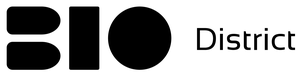
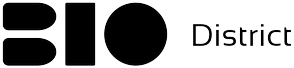
Kisi pemilih project: satu petak besar untuk project terakhir
Enam kartu sama besar terbaca sebagai daftar, dan daftar tidak mengatakan
apa pun tentang mana yang dicari. Project yang terakhir dikerjakan kini
mendapat petak dua kali dua di sudut kiri atas; lima kartu sisanya mengisi
lima petak yang tersisa, dan sembilan petak kisi tiga kali tiga itu habis
tanpa sisa. Delapan dari sepuluh kali orang membuka layar ini untuk kembali
ke project yang sama seperti kemarin.

Karena petak besar itu hanya masuk akal di sudut kiri atas, urutan tampilnya
ikut berubah: yang terakhir dikerjakan dimajukan ke depan.

Susunan ini hanya berlaku pada layar selebar 940 piksel ke atas. Di bawah
itu petak besar memakan seluruh lebar layar, dan yang tersisa justru daftar
yang sama dengan satu kartu raksasa di atasnya.

Dua hal kecil ikut dikerjakan:

  - Garis rambut memisahkan bidang lambang dari nama di bawahnya. Lambang
    yang membawa tulisan di dalamnya — Naraya, Permai Indah — paling mudah
    terbaca menyatu dengan nama project di bawahnya tanpa garis itu.
  - Sapuan emas melebar dari kiri ke kanan di tepi atas kartu yang disorot,
    dan berhenti bekerja bila peramban diminta mengurangi gerak.

Bingkai putih pada bio-district.png dihilangkan seluruhnya, bukan hanya
dipangkas: kepekatan tiap piksel dijadikan alfa, sehingga putihnya bening
dan tepi yang dihaluskan tetap halus. Nilai RGB-nya tidak diubah — hitamnya
tetap hitam. Kini keenam berkas sama-sama beralfa, dan tidak ada satu pun
yang membawa kotak putihnya sendiri.
[…]

diff --git a/src/app/globals.css b/src/app/globals.css
@@ -799,6 +799,37 @@ ul.syarat-foto { margin: 8px 0 0 16px; padding: 0; font-size: 11.5px;
    tetap cukup lebar untuk lambang yang paling melebar. */
 .pilih-project .pilihan {
   gap: 16px; grid-template-columns: repeat(auto-fit, minmax(236px, 1fr));
+  align-items: stretch;
+}
+
+/* Kisi tiga kali tiga dengan satu petak besar di sudut kiri atas.
+   
+   Enam kartu sama besar terbaca sebagai daftar, dan daftar tidak mengatakan
+   apa pun tentang mana yang dicari. Project yang terakhir dikerjakan diberi
+   petak dua kali dua — empat petak untuk satu kartu, lima kartu sisanya
+   mengisi lima petak yang tersisa, dan sembilan petaknya habis tanpa sisa.
+   Delapan dari sepuluh kali orang membuka layar ini untuk kembali ke project
+   yang sama seperti kemarin, dan kartu itulah yang paling dulu ditemukan
+   mata.
+   
+   Hanya di layar yang cukup lebar untuk tiga kolom. Di bawah itu petak besar
+   akan memakan seluruh lebar layar dan yang tersisa justru daftar yang sama,
+   hanya dengan satu kartu raksasa di atasnya. */
+@media (min-width: 940px) {
+  .pilih-project .pilihan { grid-template-columns: repeat(3, 1fr);
+                            grid-auto-flow: row dense; }
+  .pilih-project .pilihan .kartu-project.terakhir {
+    grid-column: span 2; grid-row: span 2;
+  }
+  /* Bidang lambangnya memuai mengisi tinggi kartu, bukan tetap 108 piksel —
+     kalau tidak, kartu setinggi dua baris akan berisi lambang kecil di atas
+     dan ruang kosong selebar dua kolom di bawahnya. */
+  .kartu-project.terakhir .lambang { height: auto; flex: 1; padding: 30px 30px 14px; }
+  .kartu-project.terakhir .lambang .logo-project { max-height: 132px; max-width: 62%; }
+  .kartu-project.terakhir .nama { padding-bottom: 30px; }
+  .kartu-project.terakhir .nama b { font-size: 21px; margin-bottom: 5px; }
+  .kartu-project.terakhir .nama span { font-size: 13px; }
+  .kartu-project.terakhir .tanda { font-size: 10.5px; padding: 4px 10px; }
 }
 
 /* Tombol, bukan tautan: memilih project mengubah keadaan sesi di server. */
@@ -813,7 +844,7 @@ ul.syarat-foto { margin: 8px 0 0 16px; padding: 0; font-size: 11.5px;
    adanya — sebagiannya memang tidak dirancang untuk latar gelap. */
 .kartu-project .lambang {
   position: relative; display: flex; align-items: center;
-  justify-content: center; height: 108px; padding: 18px 18px 8px;
+  justify-content: center; flex: 1; min-height: 108px; padding: 18px 18px 8px;
 }
 /* Tingginya dibatasi bidang, lebarnya dibatasi kartu, dan yang mana pun lebih
    dulu tercapai itulah yang mengikat. Tinggi tetap saja tidak cukup: lambang
@@ -833,13 +864,27 @@ ul.syarat-foto { margin: 8px 0 0 16px; padding: 0; font-size: 11.5px;
   letter-spacing: .06em; text-transform: uppercase;
   background: var(--ink); color: #fff;
 }
-.kartu-project .nama { display: block; padding: 0 16px 20px; }
+/* Garis rambut memisahkan lambang dari namanya, supaya keduanya tidak terbaca
+   sebagai satu gambar — lambang yang membawa tulisan di dalamnya, seperti
+   Naraya dan Permai Indah, paling mudah tertukar begitu. */
+.kartu-project .nama { display: block; padding: 14px 16px 20px;
+                       border-top: 1px solid #EEF0F1; }
 .kartu-project .nama b { display: block; font-size: 15px; margin-bottom: 3px; }
 .kartu-project .nama span { display: block; font-size: 11.5px; color: var(--sub); }
 
+/* Sapuan emas di tepi atas saat disorot: melebar dari kiri ke kanan, jadi
+   yang berpindah antar kartu terlihat ke mana sorotnya berpindah. */
+.kartu-project::after {
+  content: ""; position: absolute; top: 0; left: 0; height: 3px; width: 0;
+  background: var(--emas); transition: width .18s ease;
+}
+.kartu-project { position: relative; }
 .kartu-project:hover:not(:disabled) {
   border-color: var(--ink); transform: translateY(-2px);
 }
+.kartu-project:hover:not(:disabled)::after { width: 100%; }
+/* Yang terakhir dikerjakan sudah memakai bibir emas penuh di tepi atasnya. */
+.kartu-project.terakhir::after { display: none; }
 .kartu-project:focus-visible { outline: 2px solid var(--emas-tua);
                                outline-offset: 2px; }
 /* Yang terakhir dikerjakan diberi bibir emas di tepi atas — penanda yang sama
@@ -850,6 +895,7 @@ ul.syarat-foto { margin: 8px 0 0 16px; padding: 0; font-size: 11.5px;
 
 @media (prefers-reduced-motion: reduce) {
   .kartu-project:hover:not(:disabled) { transform: none; }
+  .kartu-project::after { transition: none; }
 }
 
 /* Penanda project pada kepala halaman dan tombol gantinya pada profil. */

diff --git a/src/app/project/page.tsx b/src/app/project/page.tsx
@@ -14,7 +14,7 @@
  * tetap harus mempercayai apa yang dikirimkan layar.
  */
 
-import { useCallback, useEffect, useState } from "react";
+import { useCallback, useEffect, useMemo, useState } from "react";
 
 import { Logo, LogoProject } from "../logo";
 
@@ -47,6 +47,19 @@ export default function PilihProjectPage() {
       .catch((e) => setGalat(String(e?.message ?? e)))
       .finally(() => setBusy(false));
   }, []);
+
+  /**
+   * Yang terakhir dikerjakan dimajukan ke depan.
+   *
+   * Bukan sekadar urutan: kartu pertama diberi petak dua kali dua di kisinya,
+   * dan petak itu hanya masuk akal di sudut kiri atas. Delapan dari sepuluh
+   * kali orang membuka layar ini untuk kembali ke project yang sama seperti
+   * kemarin — itulah yang pantas mendapat kartu terbesar.
+   */
+  const urut = useMemo(
+    () => [...daftar.filter((p) => p.id === dipilih),
+           ...daftar.filter((p) => p.id !== dipilih)],
+    [daftar, dipilih]);
 
   const pilih = async (slug: string) => {
     setBusy(true); setGalat(null);
@@ -85,7 +98,7 @@ export default function PilihProjectPage() {
       {galat && <div className="banner stop">{galat}</div>}
 
       <div className="pilihan">
-        {daftar.map((p) => (
+        {urut.map((p) => (
           <button key={p.slug} disabled={busy}
                   className={"opsi kartu-project" +
                              (p.id === dipilih ? " terakhir" : "")}
@@ -108,7 +121,7 @@ export default function PilihProjectPage() {
             </span>
           </button>
         ))}
-        {!daftar.length && !busy && (
+        {!urut.length && !busy && (
           <div className="banner warn">
             <b>Belum ada project</b>
             Jalankan migrasi basis data lebih dulu.
